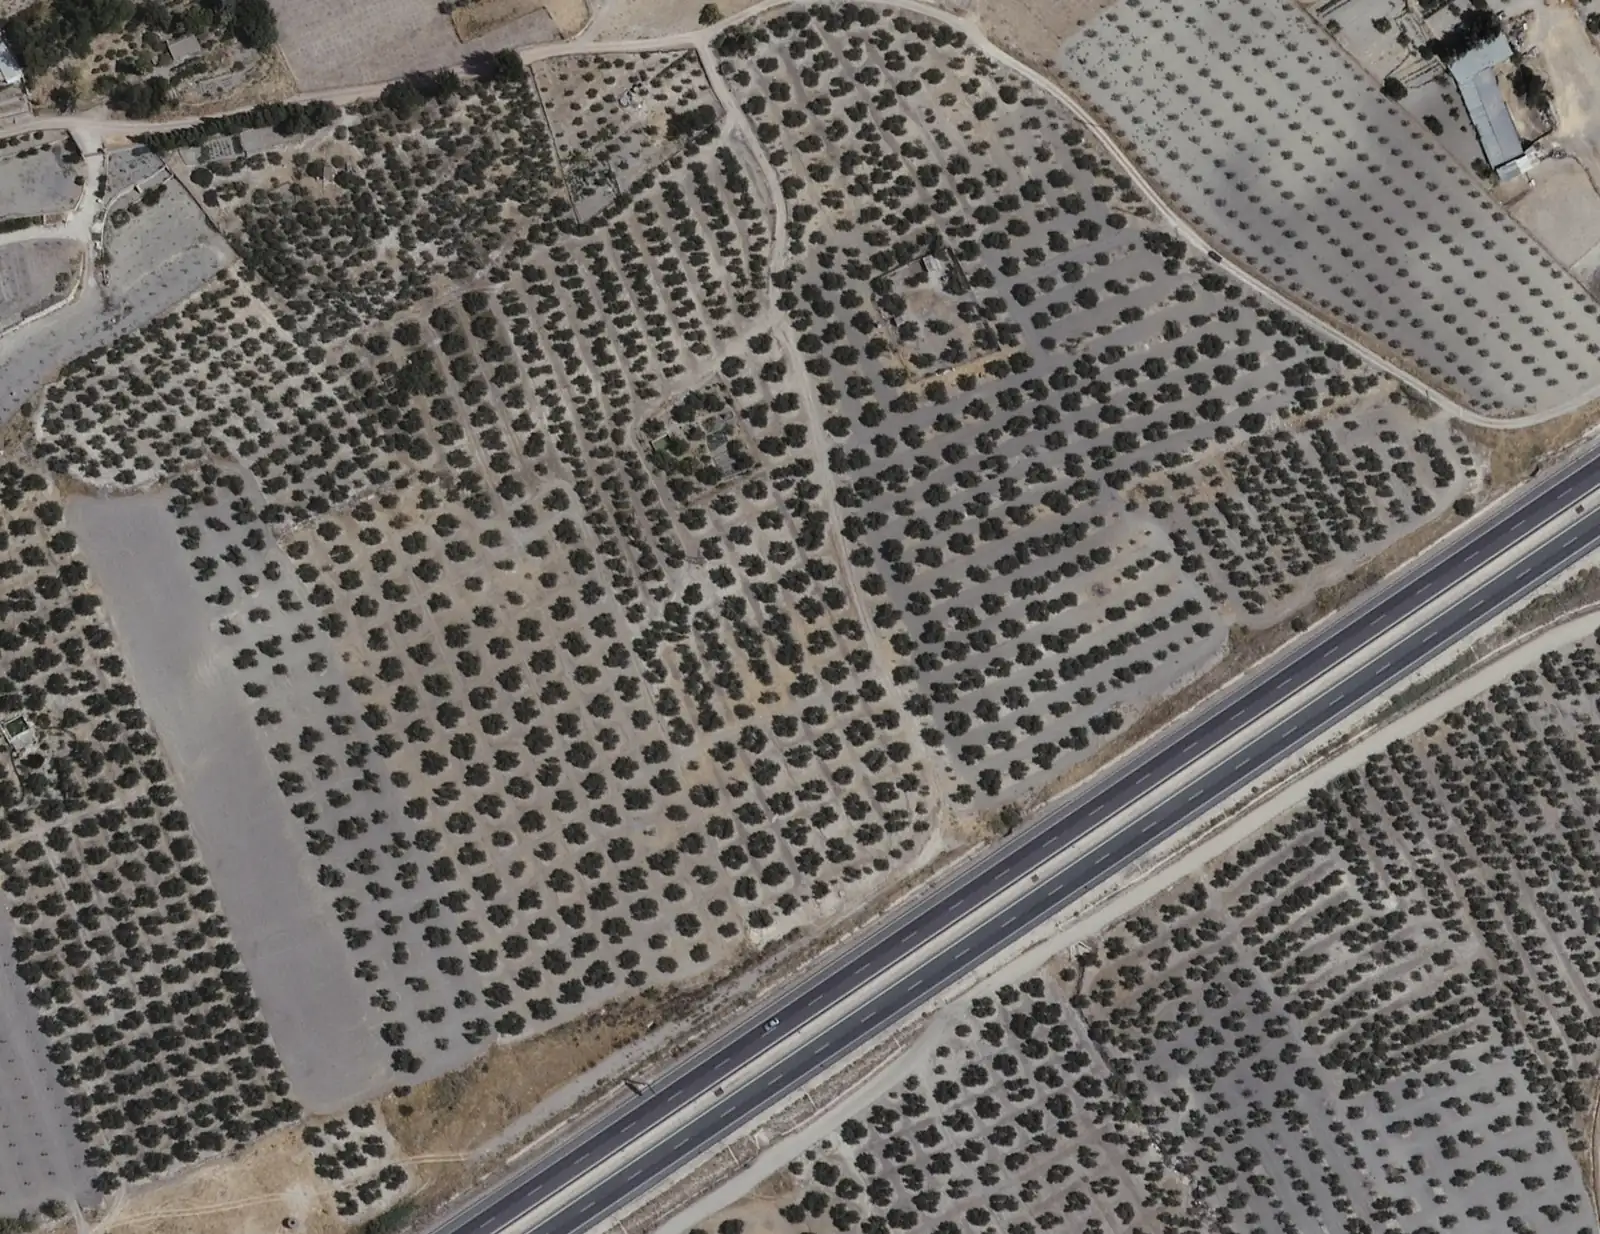
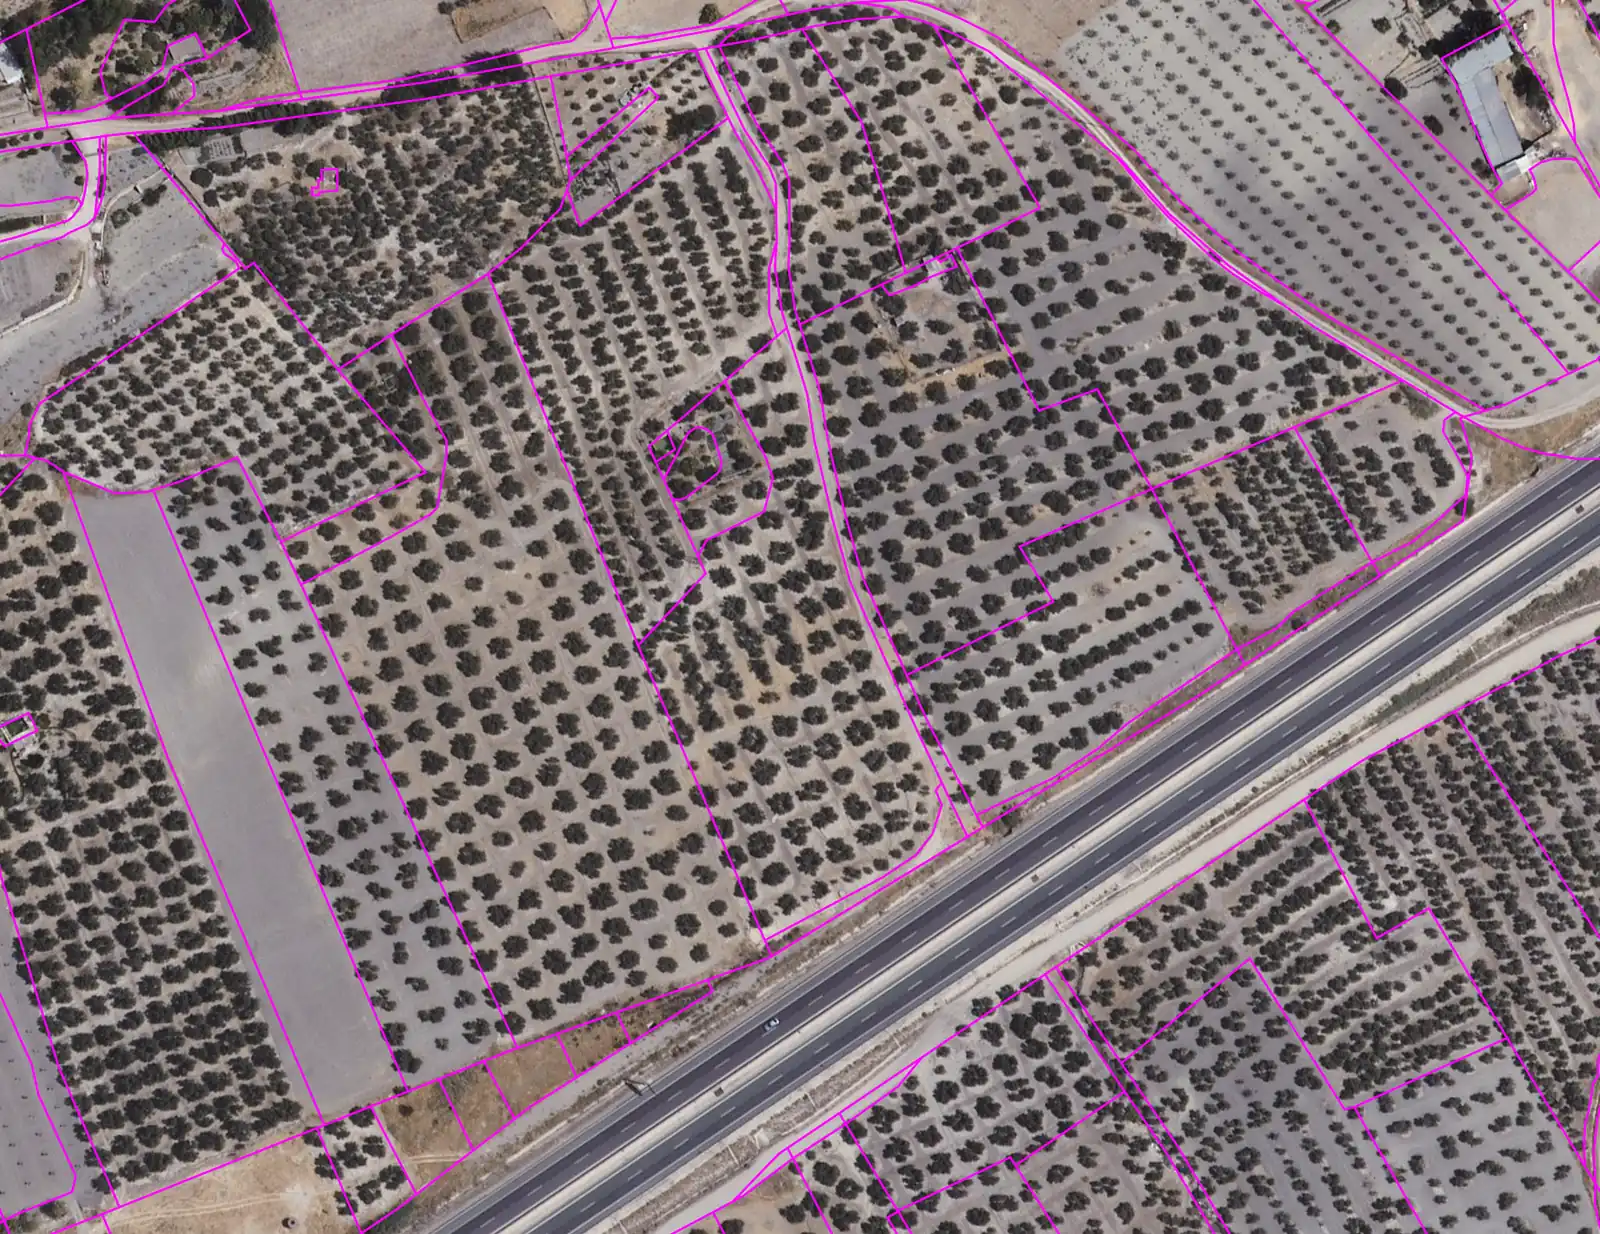
fix(analítica): mapa con la capa SIGPAC del SIG y tratamiento real
- El mapa lleva incrustada la capa WMS de recintos SIGPAC, la misma que
  carga el SIG de la app, y resalta seis recintos de olivar con su
  geometría oficial
- El ejemplo de cobre "en garrafas" no era realista (el oxicloruro de
  cobre para olivar es polvo mojable): ahora es CURENOX 50 BLUE WP
  (nº 12612) contra repilo, 300 g/hL en 800 L de caldo, P.S. 14 días
- Márgenes de ejemplo recalculados para las seis parcelas

diff --git a/index.html b/index.html
@@ -172,23 +172,24 @@
         <figure class="sig-map">
           <svg viewBox="0 0 1600 1234" role="group" aria-label="Mapa de parcelas de olivar coloreadas por NDVI">
             <image href="/assets/mapa-olivar.webp" width="1600" height="1234"/>
-            <path class="parcela" data-p="0" d="M305.0 586.3 L519.0 1044.6 L767.9 955.4 L639.8 657.9 L486.7 278.4 L395.1 335.9 L428.1 401.9 L449.3 439.8 L449.2 456.5 L439.7 509.5 L432.7 516.8 L392.3 539.9Z" tabindex="0" role="button" aria-label="Haza Grande, 1,5 ha, NDVI 0,52"></path><path class="parcela" data-p="8" d="M766.3 936.4 L880.0 875.8 L913.7 853.1 L929.7 833.0 L938.7 805.6 L932.3 790.4 L938.3 782.6 L912.8 728.8 L847.2 582.8 L829.5 519.1 L811.6 442.1 L804.3 395.2 L785.2 333.2 L728.6 381.9 L749.4 422.4 L767.8 454.6 L776.1 477.9 L766.6 513.8 L708.6 542.6 L701.4 556.9 L709.2 574.4 L641.6 646.4Z" tabindex="0" role="button" aria-label="La Vereda, 0,8 ha, NDVI 0,36"></path><path class="parcela" data-p="9" d="M940.8 31.6 L1044.2 209.1 L961.0 249.5 L1040.6 407.0 L1098.9 385.6 L1153.2 485.4 L1396.2 380.0 L1312.0 329.4 L1282.9 308.5 L1260.9 295.7 L1230.1 275.8 L1211.4 261.0 L1198.3 249.4 L1164.8 217.7 L1148.1 199.5 L1112.4 156.8 L987.5 54.2 L952.7 36.6Z" tabindex="0" role="button" aria-label="Cañada Honda, 0,7 ha, NDVI 0,49"></path><path class="parcela" data-p="10" d="M880.3 288.6 L803.2 326.1 L823.1 390.8 L830.5 438.4 L848.1 514.3 L865.4 576.1 L908.1 671.2 L1049.0 600.6 L1015.3 545.2 L1147.7 487.8 L1096.1 393.0 L1037.7 414.5 L955.6 252.1 L953.5 253.1 L960.6 268.1 L930.5 280.3 L916.9 288.3 L888.7 299.0Z" tabindex="0" role="button" aria-label="El Cerro, 0,7 ha, NDVI 0,47"></path><path class="parcela" data-p="11" d="M491.6 274.6 L511.8 324.7 L639.1 640.3 L702.1 573.2 L645.2 445.7 L773.5 335.4 L766.4 314.9 L766.1 268.0 L773.6 241.1 L773.3 210.8 L755.7 172.7 L733.0 134.3 L727.1 122.6 L578.6 230.9 L566.8 198.8 L562.4 210.7 L522.2 251.2Z" tabindex="0" role="button" aria-label="La Noria, 0,7 ha, NDVI 0,55"></path><path class="parcela" data-p="12" d="M139.0 135.5 L246.0 264.7 L254.3 258.8 L338.8 365.8 L403.9 322.9 L483.0 273.7 L518.3 246.7 L557.3 207.4 L567.4 179.8 L563.8 157.0 L548.2 79.9 L426.5 101.8 L219.9 130.7ZM309.5 198.5 L308.9 184.3 L315.2 184.9 L315.0 176.9 L318.8 176.9 L318.3 166.6 L335.1 166.4 L340.5 165.0 L340.3 193.3 L322.7 194.8 L323.1 198.2Z" tabindex="0" role="button" aria-label="Los Llanos, 0,6 ha, NDVI 0,44"></path><path class="parcela" data-p="13" d="M157.1 492.1 L409.5 1087.9 L513.3 1046.6 L278.1 543.1 L235.7 461.4 L181.1 484.4Z" tabindex="0" role="button" aria-label="El Majuelo, 0,6 ha, NDVI 0,41"></path><path class="parcela" data-p="20" d="M242.4 269.8 L42.1 405.8 L32.9 425.3 L31.8 438.1 L28.4 453.3 L47.7 458.0 L64.4 468.9 L115.8 490.4 L146.7 489.1 L179.0 478.8 L238.5 453.7 L282.1 537.8 L420.7 471.6 L335.8 371.8 L253.2 267.0 L245.0 272.9Z" tabindex="0" role="button" aria-label="La Umbría, 0,5 ha, NDVI 0,5"></path><path class="parcela" data-p="22" d="M977.7 811.3 L1052.0 775.6 L1096.2 746.7 L1125.6 721.4 L1232.9 648.5 L1150.5 493.1 L1024.0 548.0 L1057.5 603.0 L910.6 676.7 L930.2 720.4Z" tabindex="0" role="button" aria-label="Las Suertes, 0,5 ha, NDVI 0,46"></path><path class="parcela" data-p="40" d="M806.8 30.8 L864.0 120.6 L887.1 195.8 L907.7 268.6 L1035.8 206.5 L931.6 27.8 L921.6 23.6 L904.1 19.3 L859.6 22.0Z" tabindex="0" role="button" aria-label="El Pozuelo, 0,3 ha, NDVI 0,43"></path>
+            <path class="parcela" data-p="0" d="M301.0 584.9 L390.9 537.2 L430.8 514.4 L436.9 508.1 L446.2 456.2 L446.3 440.6 L425.4 403.3 L408.9 369.3 L391.2 334.9 L405.6 325.4 L425.6 312.9 L484.7 276.1 L488.0 273.6 L509.0 325.8 L638.1 645.8 L642.6 656.8 L764.8 940.6 L771.7 956.6 L768.9 958.2 L768.3 958.6 L707.6 980.3 L616.4 1012.9 L557.1 1034.1 L517.4 1048.3 L454.3 912.6 L406.5 809.7Z" tabindex="0" role="button" aria-label="Haza Grande, 1,5 ha, NDVI 0,52"></path><path class="parcela" data-p="8" d="M764.8 940.6 L642.6 656.8 L638.1 645.8 L705.7 573.8 L698.1 556.9 L706.3 540.3 L741.5 522.9 L764.0 511.7 L773.0 478.0 L765.1 455.8 L746.7 423.8 L739.0 408.2 L724.9 381.2 L777.0 336.4 L786.8 328.0 L807.2 394.5 L814.6 441.5 L832.4 518.4 L850.0 581.7 L915.6 727.5 L941.7 783.0 L935.8 790.8 L941.9 805.5 L932.4 834.4 L915.7 855.3 L881.6 878.3 L857.5 891.2 L811.6 915.6Z" tabindex="0" role="button" aria-label="La Vereda, 0,8 ha, NDVI 0,36"></path><path class="parcela" data-p="12" d="M338.2 369.9 L253.7 262.9 L245.5 268.8 L228.0 248.0 L224.5 243.8 L221.9 240.8 L168.0 174.6 L136.9 138.0 L134.1 132.9 L137.4 132.6 L149.5 131.9 L170.2 130.7 L175.3 130.4 L178.5 130.2 L219.6 127.7 L378.3 105.6 L426.0 98.9 L499.6 85.6 L550.5 76.4 L566.8 156.5 L570.5 180.1 L566.8 190.1 L561.9 203.5 L559.8 209.1 L541.7 227.4 L520.2 249.0 L488.0 273.6 L484.7 276.1 L425.6 312.9 L405.6 325.4 L391.2 334.9ZM312.4 195.5 L319.4 195.3 L318.8 192.8 L322.1 191.8 L337.3 190.5 L337.5 168.9 L335.5 169.4 L326.4 169.8 L321.4 169.7 L321.9 179.8 L318.1 179.9 L318.2 188.1 L312.1 187.6Z" tabindex="0" role="button" aria-label="Los Llanos, 0,6 ha, NDVI 0,44"></path><path class="parcela" data-p="13" d="M153.1 490.3 L180.1 481.6 L237.1 457.6 L280.8 541.8 L301.0 584.9 L406.5 809.7 L454.3 912.6 L517.4 1048.3 L506.9 1052.1 L484.1 1061.2 L454.4 1073.2 L438.7 1079.5 L407.9 1091.8Z" tabindex="0" role="button" aria-label="El Majuelo, 0,6 ha, NDVI 0,41"></path><path class="parcela" data-p="20" d="M280.8 541.8 L237.1 457.6 L180.1 481.6 L153.1 490.3 L147.2 492.1 L115.2 493.4 L63.0 471.6 L46.4 460.8 L35.0 458.0 L31.7 457.2 L24.9 455.5 L28.8 437.6 L29.9 424.5 L39.7 403.7 L239.2 268.3 L236.0 261.7 L226.3 255.8 L223.9 253.5 L222.4 248.8 L224.5 243.8 L228.0 248.0 L245.5 268.8 L253.7 262.9 L338.2 369.9 L362.9 399.0 L409.7 454.1 L425.5 472.6 L372.9 497.8 L331.5 517.5Z" tabindex="0" role="button" aria-label="La Umbría, 0,5 ha, NDVI 0,50"></path><path class="parcela" data-p="22" d="M976.4 815.2 L927.5 721.7 L914.9 693.7 L906.6 675.3 L943.9 656.6 L1053.2 601.8 L1019.7 546.6 L1151.8 489.3 L1236.8 649.4 L1196.9 677.0 L1166.6 697.6 L1127.4 723.8 L1098.0 749.1 L1053.5 778.2Z" tabindex="0" role="button" aria-label="Las Suertes, 0,5 ha, NDVI 0,46"></path>
             <g class="alerta" aria-hidden="true">
-              <rect x="642" y="575" width="250" height="72" rx="8"/>
-              <text x="767" y="631" text-anchor="middle">▼ −18%</text>
+              <rect x="641" y="574" width="250" height="72" rx="8"/>
+              <text x="766" y="630" text-anchor="middle">▼ −18%</text>
             </g>
           </svg>
           <figcaption>
             <div class="legend" aria-label="Leyenda NDVI">
               <span class="label">NDVI</span>
-              <span class="sw" style="--c:var(--ndvi-1)"></span><span>&lt;0,38</span>
-              <span class="sw" style="--c:var(--ndvi-2)"></span><span>0,38–0,42</span>
-              <span class="sw" style="--c:var(--ndvi-3)"></span><span>0,42–0,46</span>
-              <span class="sw" style="--c:var(--ndvi-4)"></span><span>0,46–0,50</span>
-              <span class="sw" style="--c:var(--ndvi-5)"></span><span>≥0,50</span>
-              <span class="sw sw-alerta"></span><span>alerta</span>
+              <span class="li"><span class="sw" style="--c:var(--ndvi-1)"></span>&lt;0,38</span>
+              <span class="li"><span class="sw" style="--c:var(--ndvi-2)"></span>0,38–0,42</span>
+              <span class="li"><span class="sw" style="--c:var(--ndvi-3)"></span>0,42–0,46</span>
+              <span class="li"><span class="sw" style="--c:var(--ndvi-4)"></span>0,46–0,50</span>
+              <span class="li"><span class="sw" style="--c:var(--ndvi-5)"></span>≥0,50</span>
+              <span class="li"><span class="sw sw-alerta"></span>alerta</span>
+              <span class="li"><span class="sw sw-sigpac"></span>recinto SIGPAC</span>
             </div>
-            <span class="credit">Ortofoto <a href="https://pnoa.ign.es" target="_blank" rel="noopener">PNOA</a> cedida por © Instituto Geográfico Nacional · recintos SIGPAC (FEGA) · olivar en Baeza, Jaén</span>
+            <span class="credit">Ortofoto <a href="https://pnoa.ign.es" target="_blank" rel="noopener">PNOA</a> cedida por © Instituto Geográfico Nacional · capa de recintos SIGPAC (FEGA), la misma del SIG · olivar en Baeza, Jaén</span>
           </figcaption>
         </figure>
 
@@ -212,7 +213,7 @@
       <details class="tabla">
         <summary>Ver los datos en tabla</summary>
         <table><thead><tr><th>Parcela</th><th class="n">ha</th><th class="n">NDVI</th><th class="n">vs media</th></tr></thead>
-        <tbody><tr><td>Haza Grande</td><td class="n">1,5</td><td class="n">0,52</td><td class="n">+2%</td></tr><tr><td>La Vereda</td><td class="n">0,8</td><td class="n">0,36</td><td class="n">-18%</td></tr><tr><td>Cañada Honda</td><td class="n">0,7</td><td class="n">0,49</td><td class="n">+1%</td></tr><tr><td>El Cerro</td><td class="n">0,7</td><td class="n">0,47</td><td class="n">-2%</td></tr><tr><td>La Noria</td><td class="n">0,7</td><td class="n">0,55</td><td class="n">+4%</td></tr><tr><td>Los Llanos</td><td class="n">0,6</td><td class="n">0,44</td><td class="n">-3%</td></tr><tr><td>El Majuelo</td><td class="n">0,6</td><td class="n">0,41</td><td class="n">-4%</td></tr><tr><td>La Umbría</td><td class="n">0,5</td><td class="n">0,50</td><td class="n">+3%</td></tr><tr><td>Las Suertes</td><td class="n">0,5</td><td class="n">0,46</td><td class="n">0%</td></tr><tr><td>El Pozuelo</td><td class="n">0,3</td><td class="n">0,43</td><td class="n">-1%</td></tr></tbody></table>
+        <tbody><tr><td>Haza Grande</td><td class="n">1,5</td><td class="n">0,52</td><td class="n">+2%</td></tr><tr><td>La Vereda</td><td class="n">0,8</td><td class="n">0,36</td><td class="n">-18%</td></tr><tr><td>Los Llanos</td><td class="n">0,6</td><td class="n">0,44</td><td class="n">-3%</td></tr><tr><td>El Majuelo</td><td class="n">0,6</td><td class="n">0,41</td><td class="n">-4%</td></tr><tr><td>La Umbría</td><td class="n">0,5</td><td class="n">0,50</td><td class="n">+3%</td></tr><tr><td>Las Suertes</td><td class="n">0,5</td><td class="n">0,46</td><td class="n">0%</td></tr></tbody></table>
       </details>
     </div>
 
@@ -223,9 +224,9 @@
       </div>
       <div class="bi-body">
         <div class="bi-kpis">
-          <div><span class="label">margen de la campaña</span><b class="kpi">8.562 <small>€</small></b><span class="sub">olivar · 6,9 ha</span></div>
-          <div><span class="label">margen medio</span><b class="kpi kpi--accent">1.240 <small>€/ha</small></b><span class="sub">coste 626 €/ha</span></div>
-          <div><span class="label">mejor parcela</span><b class="kpi">La Noria</b><span class="sub">1.560 €/ha</span></div>
+          <div><span class="label">margen de la campaña</span><b class="kpi">5.582 <small>€</small></b><span class="sub">olivar · 4,5 ha</span></div>
+          <div><span class="label">margen medio</span><b class="kpi kpi--accent">1.240 <small>€/ha</small></b><span class="sub">coste 960 €/ha</span></div>
+          <div><span class="label">mejor parcela</span><b class="kpi">Haza Grande</b><span class="sub">1.510 €/ha</span></div>
           <div><span class="label">en alerta</span><b class="kpi">La Vereda</b><span class="sub">620 €/ha · la mitad de la media</span></div>
         </div>
         <div class="bi-grid">
@@ -233,8 +234,8 @@
           <div class="terminal bi-term">
             <div class="t-dim">SEÑALES · OLIVAR · CAMPAÑA 2025/26</div>
             <p><span class="t-dim">[C-01]</span> <span class="t-warn">LA VEREDA</span> deja 620 €/ha, la mitad de la media, y coincide con su caída de vigor (−18%). <span class="t-dim">Revisa riego y sanidad antes de la próxima aplicación.</span></p>
-            <p><span class="t-dim">[C-02]</span> <span class="t-acc">HAZA GRANDE + LA NORIA</span> aportan el 38% del margen con el 32% de la superficie.</p>
-            <p><span class="t-dim">[C-03]</span> Coste de campaña: 4.320 € (626 €/ha), un 7% menos que en 2024/25.</p>
+            <p><span class="t-dim">[C-02]</span> <span class="t-acc">HAZA GRANDE</span> aporta el 41% del margen con el 33% de la superficie.</p>
+            <p><span class="t-dim">[C-03]</span> Coste de campaña: 4.320 € (960 €/ha), un 7% menos que en 2024/25.</p>
           </div>
         </div>
       </div>
@@ -253,13 +254,13 @@
         <span class="label">01 · captura</span>
         <h3>Por el canal que ya usas</h3>
         <p>Un audio desde el móvil o por WhatsApp, una foto del albarán o una importación. El operario no aprende nada nuevo.</p>
-        <span class="ej">🎙 "he sulfatado el olivar del camino con dos garrafas de cobre"</span>
+        <span class="ej">🎙 "he tratado La Vereda contra el repilo, una cuba de 800 litros de Curenox a 300 gramos"</span>
       </div>
       <div class="step">
         <span class="label">02 · validación</span>
         <h3>El sistema estructura y verifica</h3>
         <p>Producto, dosis, parcela y plazo de seguridad, verificados automáticamente. Nada queda registrado sin tu confirmación.</p>
-        <span class="ej">✓ oxicloruro de cobre · dosis ok · plazo seg. 15d · validada</span>
+        <span class="ej">✓ oxicloruro de cobre 50% · 300 g/hL (máx. 330) · plazo seg. 14 d · validada</span>
       </div>
       <div class="step">
         <span class="label">03 · decisión</span>
@@ -455,9 +456,9 @@
     { dicho: 'He echado trescientos kilos de urea en El Pozo esta mañana.',
       campos: ['Fertilización', 'El Pozo · 2,3 ha', 'Urea 46%', '300 kg', '138,00 €'],
       ok: "✓ VALIDADA · DOSIS OK" },
-    { dicho: 'He sulfatado el olivar del camino con dos garrafas de cobre.',
-      campos: ['Tratamiento', 'Olivar del camino · 4,1 ha', 'Oxicloruro de cobre', '10 L', '62,50 €'],
-      ok: "✓ VALIDADA · PLAZO SEG. 15 D" }
+    { dicho: 'He tratado La Vereda contra el repilo, una cuba de 800 litros de Curenox a 300 gramos.',
+      campos: ['Tratamiento · repilo', 'La Vereda · 0,8 ha', 'Curenox 50 Blue · nº 12612', '2,4 kg en 800 L', '36,84 €'],
+      ok: "✓ VALIDADA · PLAZO SEG. 14 D" }
   ];
   var said = demo.querySelector('.said'), rows = demo.querySelectorAll('.op .r'),
       datos = demo.querySelectorAll('.op .data'), ok = document.getElementById('demo-ok'),

diff --git a/assets/analitica.js b/assets/analitica.js
@@ -2,16 +2,12 @@
 // Geometría: recintos SIGPAC reales. Nombres, NDVI y márgenes: datos de ejemplo.
 (function(){
   var PARCELAS = [
-    {id:0,  n:'Haza Grande',  ha:1.5, v:.52, dv:.02, mg:1430},
-    {id:8,  n:'La Vereda',    ha:0.8, v:.36, dv:-.18, mg:620, alerta:true},
-    {id:9,  n:'Cañada Honda', ha:0.7, v:.49, dv:.01, mg:1330},
-    {id:10, n:'El Cerro',     ha:0.7, v:.47, dv:-.02, mg:1250},
-    {id:11, n:'La Noria',     ha:0.7, v:.55, dv:.04, mg:1560},
-    {id:12, n:'Los Llanos',   ha:0.6, v:.44, dv:-.03, mg:1180},
-    {id:13, n:'El Majuelo',   ha:0.6, v:.41, dv:-.04, mg:1060},
-    {id:20, n:'La Umbría',    ha:0.5, v:.50, dv:.03, mg:1390},
-    {id:22, n:'Las Suertes',  ha:0.5, v:.46, dv:0, mg:1290},
-    {id:40, n:'El Pozuelo',   ha:0.3, v:.43, dv:-.01, mg:1130}
+    {id:0,  n:'Haza Grande', ha:1.5, v:.52, dv:.02,  mg:1510},
+    {id:8,  n:'La Vereda',   ha:0.8, v:.36, dv:-.18, mg:620, alerta:true},
+    {id:12, n:'Los Llanos',  ha:0.6, v:.44, dv:-.03, mg:1250},
+    {id:13, n:'El Majuelo',  ha:0.6, v:.41, dv:-.04, mg:1110},
+    {id:20, n:'La Umbría',   ha:0.5, v:.50, dv:.03,  mg:1450},
+    {id:22, n:'Las Suertes', ha:0.5, v:.46, dv:0,    mg:1360}
   ];
   var MESES = ['oct','nov','dic','ene','feb','mar','abr','may','jun','jul','ago','sep'];
   var num = function(x, d){ return x.toFixed(d).replace('.', ','); };

diff --git a/assets/site.css b/assets/site.css
@@ -466,7 +466,7 @@ footer nav a:hover{color:#fff}
 .legend .label{margin-right:4px}
 .legend .sw{width:14px;height:10px;border-radius:2px;background:var(--c);box-shadow:inset 0 0 0 1px rgba(255,255,255,.18),0 0 0 1px var(--line)}
 .legend .sw-alerta{background:none;box-shadow:none;border:2px dashed var(--alerta);height:12px}
-.legend span:not(.sw):not(.label){margin-right:6px}
+.legend .li{display:inline-flex;align-items:center;gap:6px;margin-right:8px;white-space:nowrap}
 .credit{font-family:var(--font-mono);font-size:.6rem;color:var(--ink-soft);letter-spacing:.02em}
 .credit a{color:inherit}
 .sig-side{padding:20px;display:flex;flex-direction:column;gap:14px;min-width:0}
@@ -541,3 +541,4 @@ footer nav a:hover{color:#fff}
   .bar{grid-template-columns:96px 1fr 96px;gap:8px}
   .sig-head{flex-wrap:wrap}
 }
+.legend .sw-sigpac{background:none;box-shadow:none;height:2px;width:16px;background:#ff00ff;border-radius:0}

diff --git a/README.md b/README.md
@@ -6,7 +6,7 @@ Generada desde `workspace/fnfanalytics-relanzamiento/` (design system v2).
 ## Estructura
 - `index.html` — landing. `privacidad.html`, `aviso-legal.html`, `cuaderno-digital.html` (guía SEO), `asesores.html`, `404.html`: GitHub Pages las sirve sin extensión (`/asesores`).
 - `assets/site.css` — tokens v2.0 + estilos de todas las páginas. Fuentes en `assets/fonts/`, foto del hero en WebP.
-- Sección Analítica (`index.html#analitica` + `assets/analitica.js`): mapa sobre ortofoto PNOA (IGN, CC BY 4.0) con 10 recintos SIGPAC reales de olivar en Baeza (solo geometría; nombres y NDVI inventados, etiquetados como ejemplo). Imagen en `assets/mapa-olivar.webp`, zoom 19 reescalada a 1600 px; los recintos se dibujan con un margen interior de 3 px para que se separen. El BI (margen por parcela) usa datos de ejemplo de esas mismas parcelas y comparte la selección con el mapa. **No publicar datos reales de la v1.** La rampa NDVI está validada con el validador de dataviz (`--ordinal`).
+- Sección Analítica (`index.html#analitica` + `assets/analitica.js`): mapa como el SIG de la app: ortofoto PNOA (IGN, CC BY 4.0) con la capa WMS `recinto` de sigpac-hubcloud.es incrustada (líneas magenta), en `assets/mapa-olivar.webp` (zoom 19, 1600 px). Encima, 6 recintos SIGPAC de olivar en Baeza resaltados con su geometría real (OGC API de sigpac-hubcloud); nombres, NDVI y márgenes son de ejemplo. El BI (margen por parcela) usa datos de ejemplo de esas mismas parcelas y comparte la selección con el mapa. **No publicar datos reales de la v1.** Los ejemplos de tratamiento usan productos reales del registro (CURENOX 50 BLUE WP, nº 12612: repilo en olivo, 150-330 g/hL, P.S. 14 días). La rampa NDVI está validada con el validador de dataviz (`--ordinal`).
 - `og.jpg` — imagen para compartir (1200×630). `robots.txt` y `sitemap.xml`: actualiza `lastmod` al cambiar contenido.
 - Las subpáginas comparten cabecera y pie copiados a mano: si cambias la navegación, cámbiala en todas.
 - La guía del cuaderno digital lleva fecha de revisión: revísala cuando cambie la normativa.
